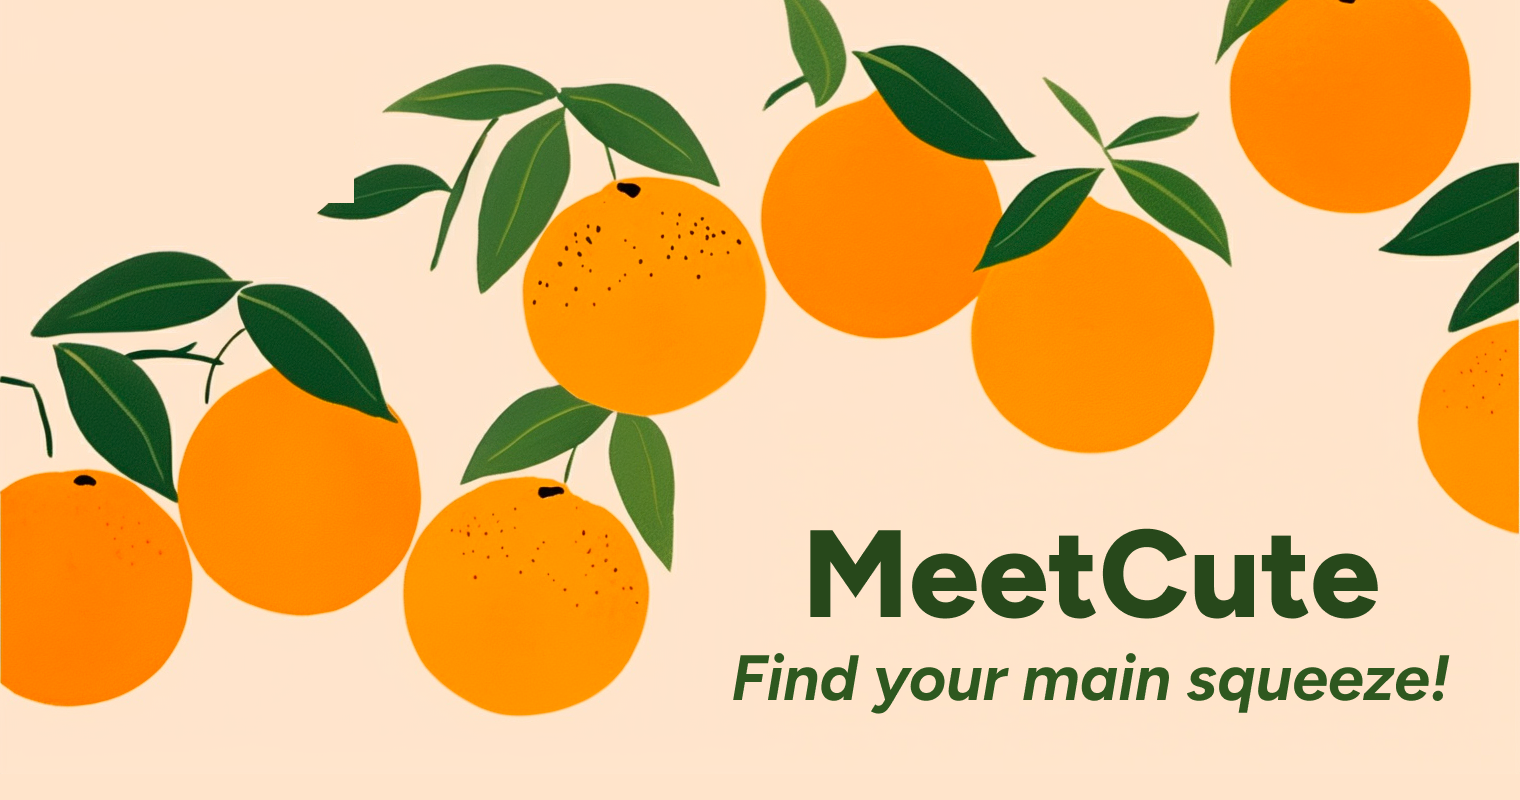
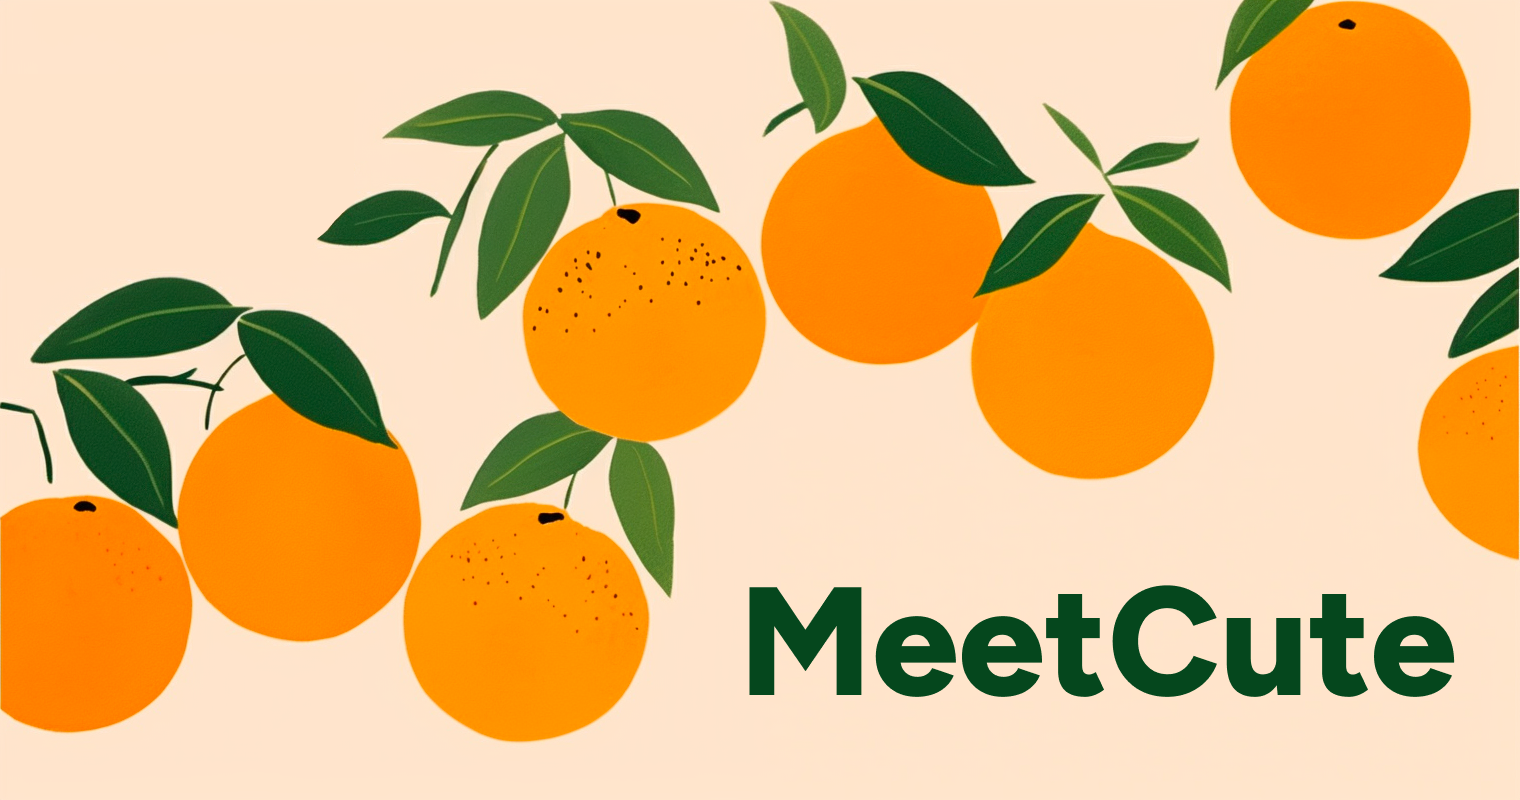
update opengraph image for meetcute

diff --git a/resources/public/meetcute.html b/resources/public/meetcute.html
@@ -47,14 +47,14 @@
     <meta name="twitter:site" content="https://smallworld.kiwi" />
     <meta name="twitter:title" content="MeetCute" />
     <meta name="twitter:description" content="Find your main squeeze" />
-    <meta name="twitter:image" content="https://smallworld.kiwi/meetcute-opengraph.png?force_update=1" />
+    <meta name="twitter:image" content="https://smallworld.kiwi/meetcute-opengraph.png?force_update=2" />
 
     <!-- Open Graph metadata -->
     <meta property="og:type" content="website" />
     <meta property="og:title" content="MeetCute" />
     <meta property="og:description" content="Find your main squeeze" />
     <meta property="og:url" content="https://smallworld.kiwi" />
-    <meta property="og:image" content="https://smallworld.kiwi/meetcute-opengraph.png?force_update=1" />
+    <meta property="og:image" content="https://smallworld.kiwi/meetcute-opengraph.png?force_update=2" />
   </head>
   <body>
     <!-- this is the element that React will look for -->
